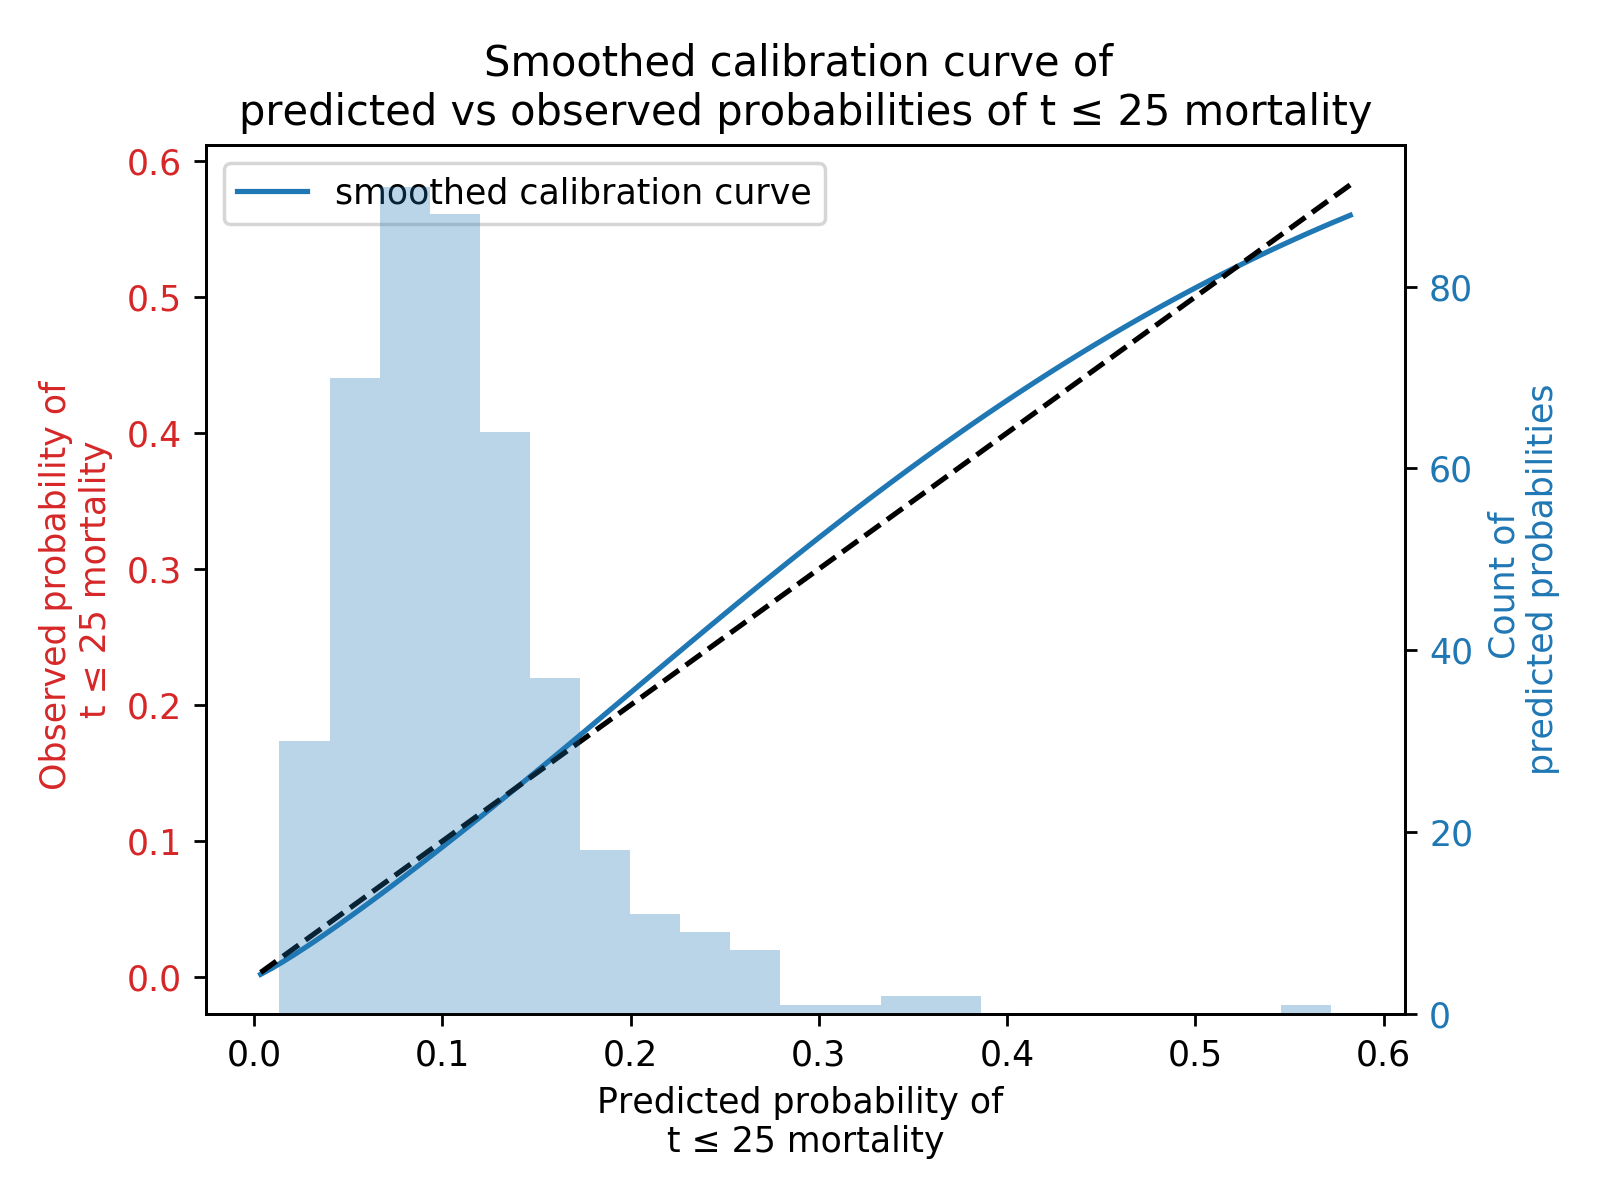
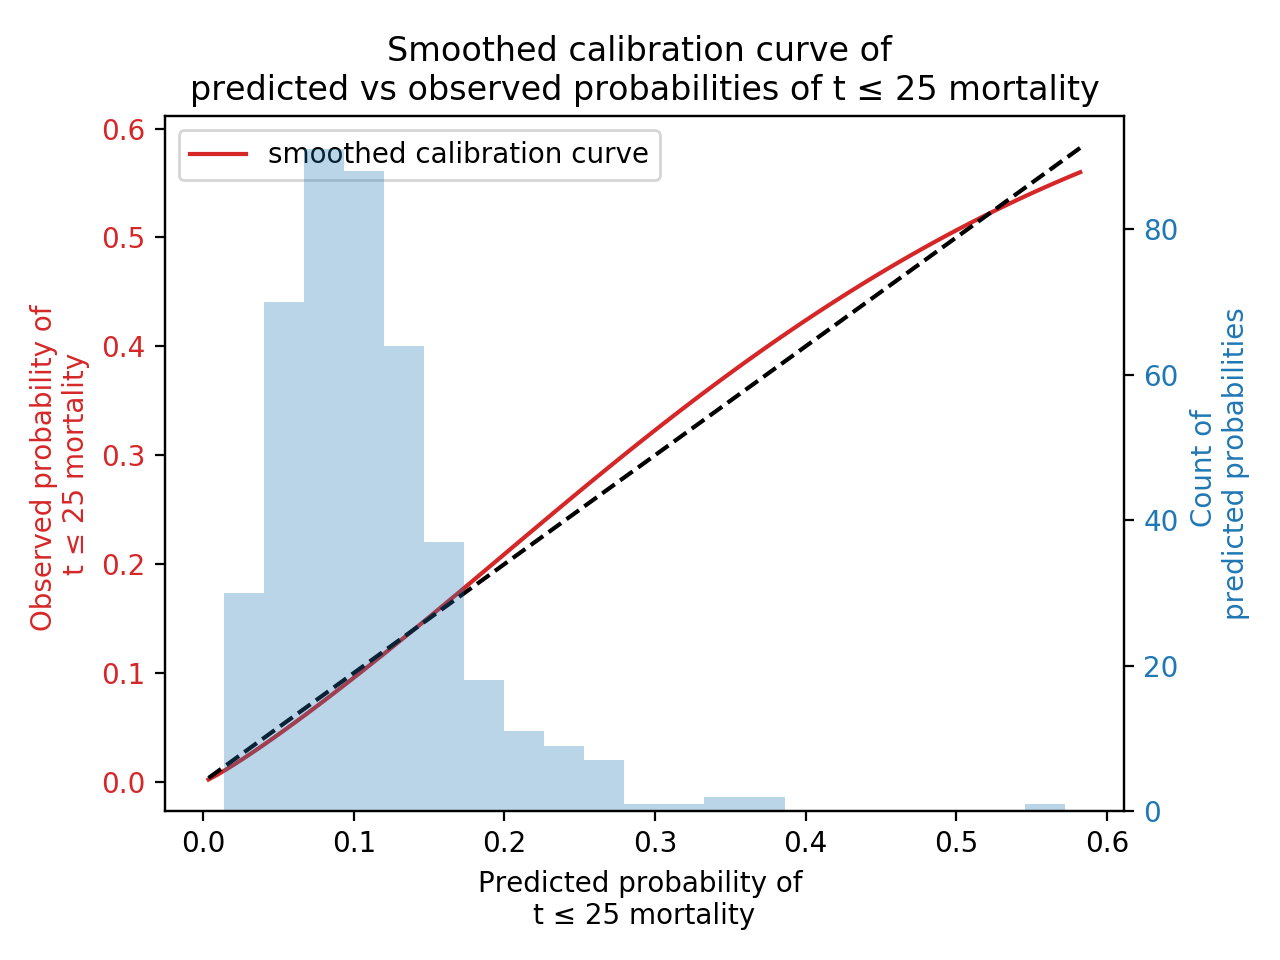
lint

diff --git a/lifelines/fitters/generalized_gamma_regression_fitter.py b/lifelines/fitters/generalized_gamma_regression_fitter.py
@@ -154,7 +154,7 @@ class GeneralizedGammaRegressionFitter(ParametricRegressionFitter):
 
         Z = (log(T) - mu_) / sigma_
         ilambda_2 = 1 / lambda_ ** 2
-        exp_term = np.clip(safe_exp(lambda_ * Z) * ilambda_2, 1e-25, 1e25)
+        exp_term = np.clip(safe_exp(lambda_ * Z) * ilambda_2, 1e-300, 1e25)
 
         return np.where(lambda_ > 0, gammaincc(ilambda_2, exp_term), gammainc(ilambda_2, exp_term))
 
@@ -164,8 +164,8 @@ class GeneralizedGammaRegressionFitter(ParametricRegressionFitter):
         mu_ = Xs["mu_"] @ params["mu_"]
 
         ilambda_2 = 1 / lambda_ ** 2
-        Z = (log(T) - mu_) / np.clip(sigma_, 1e-10, 1e20)
-        exp_term = np.clip(safe_exp(lambda_ * Z) * ilambda_2, 1e-25, 1e25)
+        Z = (log(T) - mu_) / np.clip(sigma_, 0, 1e20)
+        exp_term = np.clip(safe_exp(lambda_ * Z) * ilambda_2, 1e-300, 1e25)
 
         return -np.where(lambda_ > 0, gammainccln(ilambda_2, exp_term), gammaincln(ilambda_2, exp_term))
 
@@ -175,8 +175,8 @@ class GeneralizedGammaRegressionFitter(ParametricRegressionFitter):
         mu_ = Xs["mu_"] @ params["mu_"]
 
         ilambda_2 = 1 / lambda_ ** 2
-        Z = (log(T) - mu_) / np.clip(safe_exp(ln_sigma_), 1e-10, 1e20)
-        exp_term = np.clip(safe_exp(lambda_ * Z) * ilambda_2, 1e-25, 1e25)
+        Z = (log(T) - mu_) / np.clip(safe_exp(ln_sigma_), 0, 1e20)
+        exp_term = np.clip(safe_exp(lambda_ * Z) * ilambda_2, 1e-300, 1e25)
 
         return (
             log(np.abs(lambda_))

diff --git a/lifelines/fitters/generalized_gamma_fitter.py b/lifelines/fitters/generalized_gamma_fitter.py
@@ -104,6 +104,7 @@ class GeneralizedGammaFitter(KnownModelParametricUnivariateFitter):
         The entry array provided, or None
     """
 
+    _scipy_fit_method = "SLSQP"
     _fitted_parameter_names = ["mu_", "ln_sigma_", "lambda_"]
     _bounds = [(None, None), (None, None), (None, None)]
     _compare_to_values = np.array([0.0, 0.0, 1.0])
@@ -124,7 +125,7 @@ class GeneralizedGammaFitter(KnownModelParametricUnivariateFitter):
         sigma_ = safe_exp(ln_sigma_)
         Z = (log(times) - mu_) / sigma_
         ilambda_2 = 1 / lambda_ ** 2
-        clipped_exp = np.clip(safe_exp(lambda_ * Z) * ilambda_2, 1e-15, 1e20)
+        clipped_exp = np.clip(safe_exp(lambda_ * Z) * ilambda_2, 1e-300, 1e20)
 
         if lambda_ > 0:
             v = -gammainccln(ilambda_2, clipped_exp)
@@ -132,14 +133,13 @@ class GeneralizedGammaFitter(KnownModelParametricUnivariateFitter):
             v = -gammaincln(ilambda_2, clipped_exp)
         else:
             v = -norm.logsf(Z)
-
         return v
 
     def _log_hazard(self, params, times):
         mu_, ln_sigma_, lambda_ = params
         ilambda_2 = 1 / lambda_ ** 2
         Z = (log(times) - mu_) / safe_exp(ln_sigma_)
-        clipped_exp = np.clip(safe_exp(lambda_ * Z) * ilambda_2, 1e-15, 1e20)
+        clipped_exp = np.clip(safe_exp(lambda_ * Z) * ilambda_2, 1e-300, 1e20)
         if lambda_ > 0:
             v = (
                 log(lambda_)

diff --git a/lifelines/calibration.py b/lifelines/calibration.py
@@ -77,7 +77,7 @@ def survival_probability_calibration(model: RegressionFitter, training_df: pd.Da
     ax.set_title("Smoothed calibration curve of \npredicted vs observed probabilities of t ≤ %d mortality" % t0)
 
     color = "tab:red"
-    ax.plot(x, y, label="smoothed calibration curve")
+    ax.plot(x, y, label="smoothed calibration curve", color=color)
     ax.set_xlabel("Predicted probability of \nt ≤ %d mortality" % t0)
     ax.set_ylabel("Observed probability of \nt ≤ %d mortality" % t0, color=color)
     ax.tick_params(axis="y", labelcolor=color)

diff --git a/lifelines/tests/utils/test_utils.py b/lifelines/tests/utils/test_utils.py
@@ -911,7 +911,7 @@ class TestSklearnAdapter:
         clf = GridSearchCV(base_model(), grid_params, cv=4)
         clf.fit(X, Y)
 
-        assert clf.best_params_ == {"model_ancillary": False, "penalizer": 100.0}
+        assert clf.best_params_ == {"model_ancillary": True, "penalizer": 100.0}
         assert clf.predict(X).shape[0] == X.shape[0]
 
     def test_model_can_accept_things_like_strata(self, X, Y):
